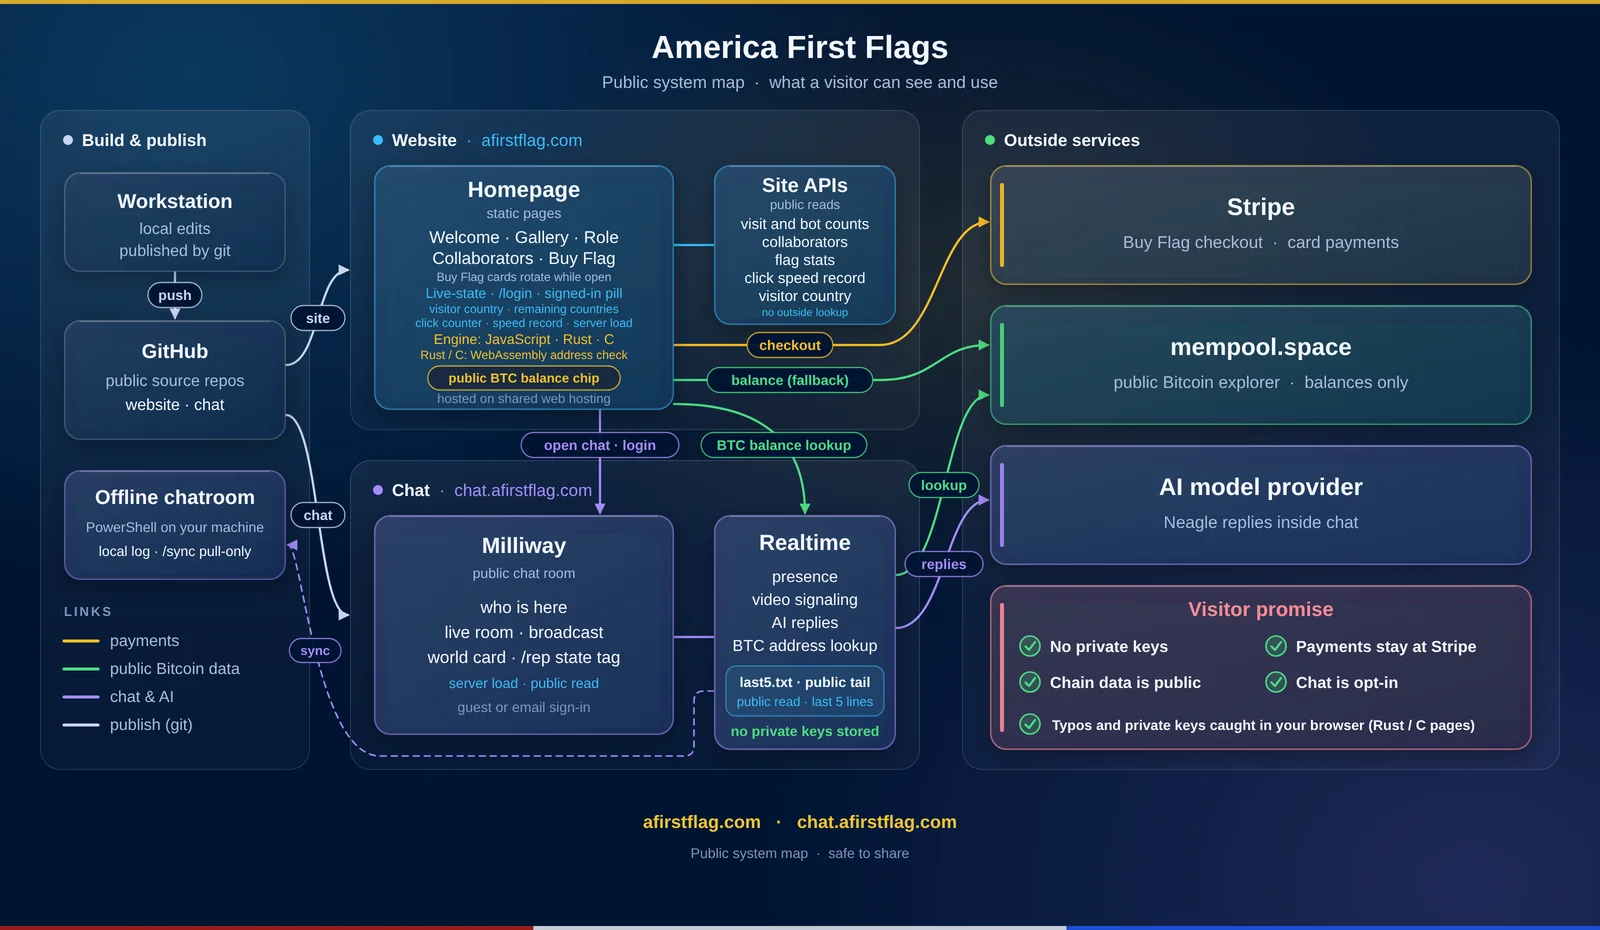
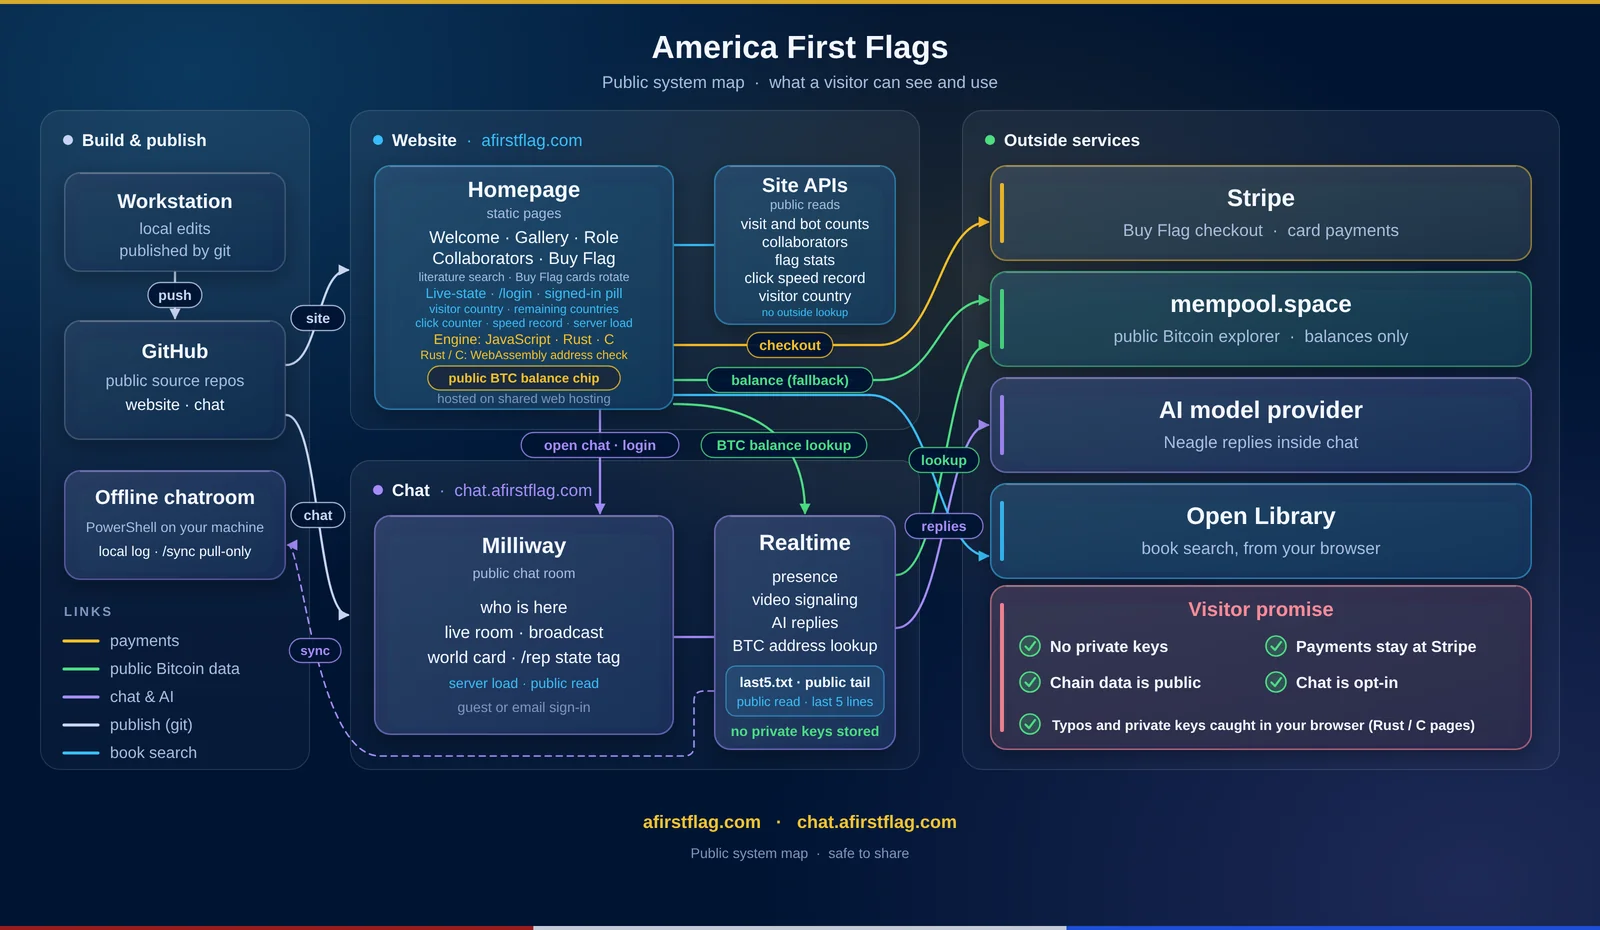
CHG-088: Literature drawer (Open Library title search) above Collaborators
Search runs from the visitor's browser on Enter or Search only (title=, 20 results, 10s timeout, textContent only, nothing stored). Own script block so it works when storage is blocked. Built With Gratitude card and docs credit Open Library (Internet Archive). How it works map rev 9 (?v=088).

Changed region(s): [[0.5625, 0.1871, 0.9688, 0.6548], [0.4375, 0.4054, 0.5625, 0.4366], [0.2812, 0.2806, 0.4062, 0.3118]]

diff --git a/index.html b/index.html
@@ -678,6 +678,93 @@
 
     /* Built With Gratitude — g10 drawer under role bar */
 
+    /* CHG-088: Literature drawer (book search, Open Library, from the browser) */
+    .lit-wrap {
+      flex-shrink: 0;
+      margin: 0 16px 8px;
+    }
+
+    .lit-form {
+      display: flex;
+      gap: 8px;
+      max-width: 520px;
+      margin-bottom: 8px;
+    }
+
+    .lit-form input {
+      flex: 1 1 auto;
+      min-width: 0;
+      padding: 8px 10px;
+      border-radius: 10px;
+      border: 1px solid rgba(255, 255, 255, 0.25);
+      background: rgba(0, 0, 0, 0.25);
+      color: #fff;
+      font: inherit;
+      font-size: 16px;
+    }
+
+    .lit-form .btn {
+      flex: 0 0 auto;
+      width: auto;
+    }
+
+    .lit-form .btn:disabled {
+      opacity: 0.6;
+      cursor: default;
+    }
+
+    #lit-status {
+      font-size: 12px;
+      color: rgba(244, 247, 255, 0.72);
+      margin: 0 0 8px;
+      min-height: 1em;
+    }
+
+    .lit-list {
+      list-style: none;
+      margin: 0;
+      padding: 0;
+      display: grid;
+      grid-template-columns: repeat(auto-fill, minmax(260px, 1fr));
+      gap: 8px;
+    }
+
+    .lit-item {
+      display: flex;
+      gap: 10px;
+      align-items: flex-start;
+      padding: 8px;
+      border-radius: 10px;
+      background: rgba(255, 255, 255, 0.06);
+      min-width: 0;
+    }
+
+    .lit-cover {
+      flex: 0 0 auto;
+      width: 44px;
+      height: 66px;
+      object-fit: cover;
+      border-radius: 4px;
+      background: rgba(255, 255, 255, 0.12);
+    }
+
+    .lit-cover.ph { display: block; }
+
+    .lit-meta {
+      min-width: 0;
+      font-size: 12px;
+      line-height: 1.4;
+      color: rgba(244, 247, 255, 0.8);
+      overflow-wrap: anywhere;
+    }
+
+    .lit-meta a {
+      display: block;
+      font-size: 14px;
+      font-weight: 700;
+      color: #fff;
+    }
+
     /* Collaborators — drawer between Gratitude and Gallery */
     .collab-wrap {
       flex-shrink: 0;
@@ -1349,10 +1436,10 @@
       </button>
       <div class="drawer-body" id="how-panel">
         <p class="how-lede">Public system map: what a visitor can see and use. Tap the map to open it full size.</p>
-        <a class="how-map" href="/images/architecture-public.png?v=082" target="_blank" rel="noopener">
+        <a class="how-map" href="/images/architecture-public.png?v=088" target="_blank" rel="noopener">
           <picture>
-            <source srcset="/images/architecture-public.webp?v=082" type="image/webp">
-            <img src="/images/architecture-public.png?v=082" width="1600" height="930" loading="lazy" decoding="async" alt="Public system map of America First Flags. The website, afirstflag.com, serves the homepage sections (welcome, gallery, role, collaborators, and Buy Flag, plus a public BTC balance chip) and site APIs for visit and bot counts, collaborators, flag stats, the click speed record, and the visitor country (looked up on the site, no outside lookup). The chat, chat.afirstflag.com, is the Milliway public chat room with realtime presence, video signaling, AI replies, and BTC address lookup, and stores no private keys. Outside services: Stripe for Buy Flag checkout and card payments, mempool.space as the public Bitcoin explorer for balances only, and an AI model provider for Neagle replies inside chat. Both sites are published from a workstation through public GitHub repos. Visitor promise: no private keys, payments stay at Stripe, chain data is public, chat is opt-in. The homepage Live-state panel has a /login command that opens chat sign-in. The chat publishes a public tail of the last 5 public chat lines (last5.txt), and an offline chatroom on the owner's machine pulls that tail with /sync. The Live-state panel also shows a signed-in pill, and signed-in chat members can add a state tag with /rep. The Live-state panel also has an Engine row (Run page in JavaScript, Rust, or C); the Rust and C pages check Bitcoin addresses in the visitor's browser with WebAssembly before any lookup is sent, so typos and private keys are caught there on those pages. The Live-state panel also has a click counter that stays in the visitor's browser (browser-local storage); its best click speed runs can set a site-wide click speed record kept by the site APIs, and the Buy Flag window rotates its cards while open. The Live-state panel also shows a visitor country pill with a flag, found from the visitor's IP address in a database kept on the site, so the address is not sent to any outside service. A remaining countries pill shows how many countries no visitor has come from yet. The Live-state panel also shows the chat server load, read from a public read-only feed on the chat.">
+            <source srcset="/images/architecture-public.webp?v=088" type="image/webp">
+            <img src="/images/architecture-public.png?v=088" width="1600" height="930" loading="lazy" decoding="async" alt="Public system map of America First Flags. The website, afirstflag.com, serves the homepage sections (welcome, gallery, role, collaborators, and Buy Flag, plus a public BTC balance chip) and site APIs for visit and bot counts, collaborators, flag stats, the click speed record, and the visitor country (looked up on the site, no outside lookup). The chat, chat.afirstflag.com, is the Milliway public chat room with realtime presence, video signaling, AI replies, and BTC address lookup, and stores no private keys. Outside services: Stripe for Buy Flag checkout and card payments, mempool.space as the public Bitcoin explorer for balances only, and an AI model provider for Neagle replies inside chat. Both sites are published from a workstation through public GitHub repos. Visitor promise: no private keys, payments stay at Stripe, chain data is public, chat is opt-in. The homepage Live-state panel has a /login command that opens chat sign-in. The chat publishes a public tail of the last 5 public chat lines (last5.txt), and an offline chatroom on the owner's machine pulls that tail with /sync. The Live-state panel also shows a signed-in pill, and signed-in chat members can add a state tag with /rep. The Live-state panel also has an Engine row (Run page in JavaScript, Rust, or C); the Rust and C pages check Bitcoin addresses in the visitor's browser with WebAssembly before any lookup is sent, so typos and private keys are caught there on those pages. The Live-state panel also has a click counter that stays in the visitor's browser (browser-local storage); its best click speed runs can set a site-wide click speed record kept by the site APIs, and the Buy Flag window rotates its cards while open. The Live-state panel also shows a visitor country pill with a flag, found from the visitor's IP address in a database kept on the site, so the address is not sent to any outside service. A remaining countries pill shows how many countries no visitor has come from yet. The Live-state panel also shows the chat server load, read from a public read-only feed on the chat. The homepage also has a literature search: the visitor's browser asks Open Library, an outside book catalog, for books matching a title.">
           </picture>
         </a>
       </div>
@@ -1747,6 +1834,15 @@
                 </dl>
                 <p class="thanks">Thank you for making this available.</p>
               </article>
+              <article class="tcard" style="border-top-color:#fbbf24">
+                <h4>Open Library</h4>
+                <dl>
+                  <dt>Purpose</dt><dd>Book search in the Literature drawer, asked from the visitor's browser</dd>
+                  <dt>Maintainer</dt><dd><a href="https://openlibrary.org" target="_blank" rel="noopener">Open Library (Internet Archive)</a></dd>
+                  <dt>License</dt><dd>Catalog data: public domain (CC0); covers: Open Library cover guidelines</dd>
+                </dl>
+                <p class="thanks">Thank you for making this available.</p>
+              </article>
             </div>
           </section>
 
@@ -1785,6 +1881,23 @@
               <div class="ph">B2</div>
             </div>
           </div>
+        </div>
+      </section>
+    </div>
+
+    <div class="lit-wrap">
+      <section class="drawer glass" id="lit-drawer" aria-label="Literature">
+        <button type="button" class="drawer-toggle" id="lit-toggle" aria-expanded="false" aria-controls="lit-panel">
+          <span>Literature <span style="opacity:0.6;font-weight:600;font-size:12px">· click to <span class="label-state">expand</span></span></span>
+          <span class="chev" aria-hidden="true">▾</span>
+        </button>
+        <div class="drawer-body" id="lit-panel">
+          <form class="lit-form" id="lit-form" action="#" role="search" autocomplete="off">
+            <input type="search" id="lit-q" maxlength="100" placeholder="Title" aria-label="Book title" enterkeyhint="search">
+            <button type="submit" class="btn primary" id="lit-go">Search</button>
+          </form>
+          <p id="lit-status" role="status" aria-live="polite"></p>
+          <ul class="lit-list" id="lit-results"></ul>
         </div>
       </section>
     </div>
@@ -2725,6 +2838,101 @@
       document.body.appendChild(s);
     })();
 
+  </script>
+  <script>
+    /* CHG-088: Literature drawer in its own script block, so it still works when an earlier block stops
+       (for example when the browser blocks localStorage). */
+    (function () {
+      var drawer = document.getElementById("lit-drawer");
+      var btn = document.getElementById("lit-toggle");
+      if (!drawer || !btn) return;
+      btn.addEventListener("click", function () {
+        var open = drawer.classList.toggle("open");
+        btn.setAttribute("aria-expanded", open ? "true" : "false");
+        var state = btn.querySelector(".label-state");
+        if (state) state.textContent = open ? "collapse" : "expand";
+      });
+    })();
+
+    /* CHG-088: Literature search. Runs only when the visitor searches; the browser asks Open Library
+       directly (title search). Nothing is stored. API text goes in with textContent only. */
+    (function () {
+      var form = document.getElementById("lit-form");
+      var input = document.getElementById("lit-q");
+      var go = document.getElementById("lit-go");
+      var statusEl = document.getElementById("lit-status");
+      var list = document.getElementById("lit-results");
+      if (!form || !input || !go || !statusEl || !list) return;
+      var API = "https://openlibrary.org/search.json";
+      var FIELDS = "key,title,author_name,first_publish_year,cover_i";
+      var busy = false;
+
+      function el(tag, cls, text) {
+        var e = document.createElement(tag);
+        if (cls) e.className = cls;
+        if (text != null) e.textContent = text;
+        return e;
+      }
+
+      function item(d) {
+        var li = el("li", "lit-item");
+        var cover = d.cover_i;
+        if (typeof cover === "number" && cover > 0 && Math.floor(cover) === cover) {
+          var img = el("img", "lit-cover");
+          img.loading = "lazy";
+          img.decoding = "async";
+          img.alt = "";
+          img.width = 44;
+          img.height = 66;
+          img.src = "https://covers.openlibrary.org/b/id/" + cover + "-S.jpg";
+          li.appendChild(img);
+        } else {
+          li.appendChild(el("span", "lit-cover ph"));
+        }
+        var meta = el("div", "lit-meta");
+        var title = typeof d.title === "string" && d.title ? d.title : "Untitled";
+        var key = typeof d.key === "string" && /^\/works\/OL\d+W$/.test(d.key) ? d.key : null;
+        if (key) {
+          var a = el("a", null, title);
+          a.href = "https://openlibrary.org" + key;
+          a.target = "_blank";
+          a.rel = "noopener";
+          meta.appendChild(a);
+        } else {
+          meta.appendChild(el("strong", null, title));
+        }
+        var authors = Array.isArray(d.author_name) ? d.author_name.filter(function (x) { return typeof x === "string"; }) : [];
+        meta.appendChild(el("div", null, authors.length ? authors.join(", ") : "Unknown author"));
+        if (typeof d.first_publish_year === "number") meta.appendChild(el("div", null, String(d.first_publish_year)));
+        li.appendChild(meta);
+        return li;
+      }
+
+      function run() {
+        var q = input.value.trim().slice(0, 100);
+        if (!q || busy) return;
+        busy = true;
+        go.disabled = true;
+        list.textContent = "";
+        statusEl.textContent = "Searching...";
+        var ctl = typeof AbortController === "function" ? new AbortController() : null;
+        var timer = setTimeout(function () { if (ctl) ctl.abort(); }, 10000);
+        var url = API + "?title=" + encodeURIComponent(q) + "&fields=" + FIELDS + "&limit=20";
+        fetch(url, ctl ? { signal: ctl.signal, credentials: "omit" } : { credentials: "omit" })
+          .then(function (r) { if (!r.ok) throw new Error("http"); return r.json(); })
+          .then(function (j) {
+            var docs = j && Array.isArray(j.docs) ? j.docs.slice(0, 20) : [];
+            var n = j && typeof j.numFound === "number" ? j.numFound : docs.length;
+            if (!docs.length) { statusEl.textContent = "No matches."; return; }
+            for (var i = 0; i < docs.length; i++) list.appendChild(item(docs[i] || {}));
+            statusEl.textContent = n.toLocaleString("en-US") + (n === 1 ? " match" : " matches") + (n > docs.length ? ", showing " + docs.length + "." : ".");
+          })
+          .catch(function () { list.textContent = ""; statusEl.textContent = "Search unavailable. Try again later."; })
+          .then(function () { clearTimeout(timer); busy = false; go.disabled = false; });
+      }
+
+      form.addEventListener("submit", function (e) { e.preventDefault(); run(); });
+    })();
   </script>
   <script>
     /* CHG-068: Live-state Click counter. Per-visitor count in localStorage (kept in memory if storage is blocked). No network.

diff --git a/docs/THIRD-PARTY-NOTICES.md b/docs/THIRD-PARTY-NOTICES.md
@@ -30,6 +30,7 @@ Last reviewed: 2026-10-02 (CHG-059).
 | SMTP provider | Sign-in code mail | Provider ToS |
 | Google STUN | WebRTC | Google terms: review open |
 | DB-IP IP to Country Lite (release 2026-10) | Data for the visitor country pill, bundled as `geo/ip-country.bin` (repacked) | CC BY 4.0, attribution required (see below) |
+| Open Library (Internet Archive) | Book search in the Literature drawer, called from the visitor's browser | Catalog data CC0 / public domain; covers per Open Library cover guidelines (see below) |
 
 ## DB-IP IP to Country Lite (CHG-076)
 
@@ -42,5 +43,21 @@ Last reviewed: 2026-10-02 (CHG-059).
   set to unknown, neighboring ranges merged, repacked as a binary file (`tools/geo-build/build.py`).
   Source release, checksums and build details: `geo/README.md`.
 - The data is provided as is, without warranty; DB-IP does not endorse this site.
+
+## Open Library (CHG-088)
+
+- Service: Open Library Search API (https://openlibrary.org/search.json) and Covers API (https://covers.openlibrary.org),
+  run by the Internet Archive. Called directly from the visitor's browser when they search in the Literature drawer.
+  Nothing is stored or proxied by this site.
+- Data: Open Library asserts no copyright over its catalog records and asks that contributions be CC0 1.0
+  (https://openlibrary.org/developers/licensing, https://openlibrary.org/help/faq/using).
+- Covers: the cover art itself may be copyrighted by its publishers or artists. Open Library's cover guidelines
+  (https://openlibrary.org/dev/docs/api/covers) ask sites to load covers from covers.openlibrary.org (we do),
+  not to crawl, and appreciate a courtesy link back (each result links to its Open Library page; Gratitude card).
+- Usage guidance (https://openlibrary.org/developers/api): requests on behalf of human users only, about
+  1 request per second per unidentified client (3 per second when identified). Searches run only on a visitor's
+  click or Enter, one at a time.
+- Privacy: the visitor's browser contacts openlibrary.org and covers.openlibrary.org (redirects to archive.org),
+  so those services see the visitor's IP address and the search words.
 
 Do not copy this file into a product that implies those vendors endorse afirstflag.

diff --git a/docs/TECHNOLOGY-ATTRIBUTION.md b/docs/TECHNOLOGY-ATTRIBUTION.md
@@ -48,6 +48,8 @@ Last reviewed: 2026-10-02 (CHG-059), against Shop `main` d3ea766 and Nest `main`
 - Stripe: payments (Buy Flag Payment Link) and webhook for flag inventory
 - mempool.space: public Bitcoin balance data (address search, Confirmed balance chip); explorer code AGPL-3.0
 - xAI: Neagle replies in chat (Grok model via the xAI API)
+- Open Library (Internet Archive): book search in the Literature drawer, asked from the visitor's browser (CHG-088).
+  Catalog data CC0 / public domain; covers from covers.openlibrary.org under their cover guidelines.
 - GitHub: source hosting
 - Namecheap: domain, DNS, mail forwarding, and shared web hosting for afirstflag.com
 - Let's Encrypt (ISRG): TLS certificate for the chat site
